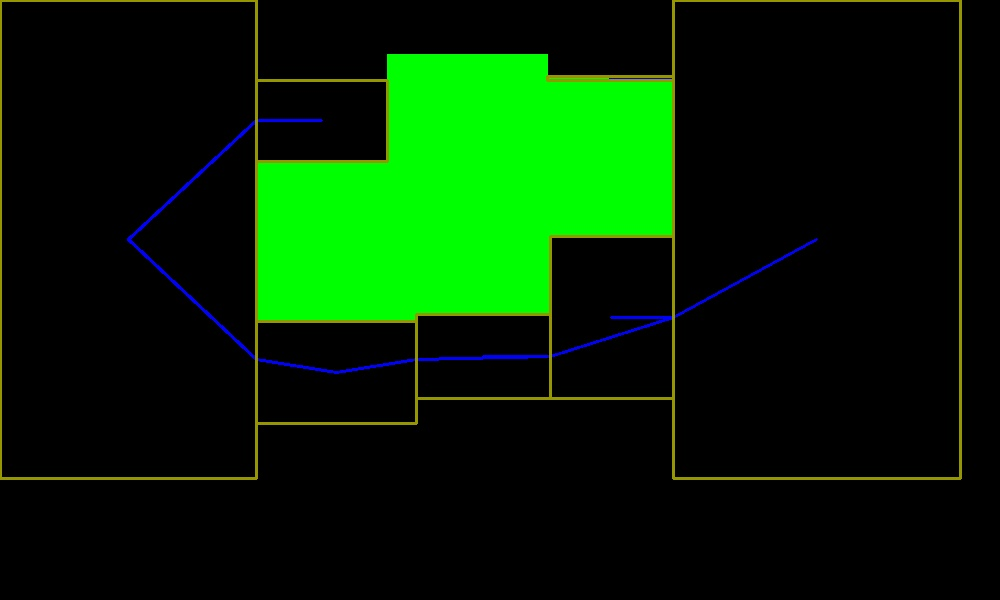
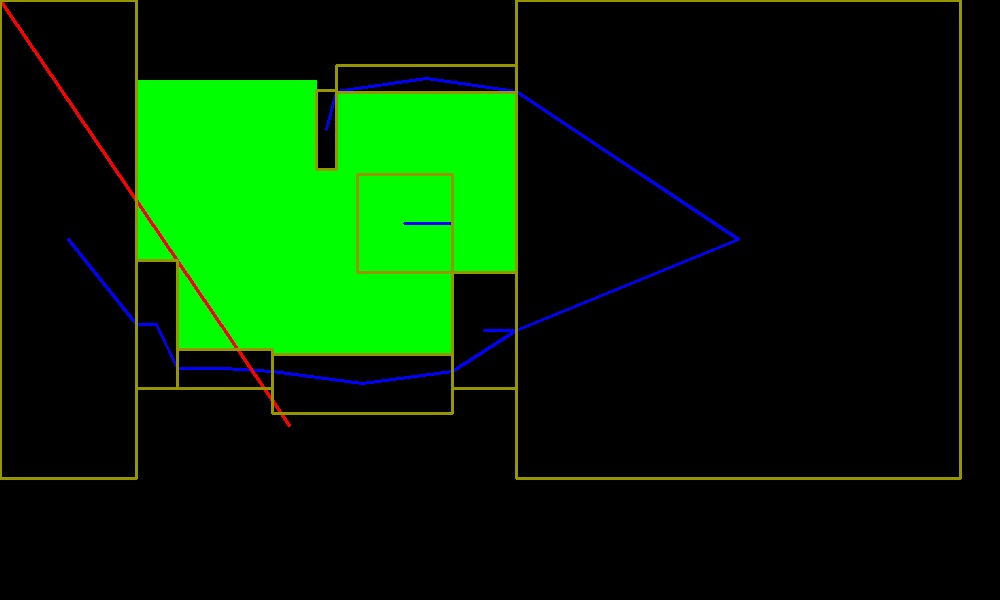
Ajout de marge de manoeuvre pour placement sur iles

diff --git a/Client/BaseStation/Logic/Pathfinding/Graph/Graph.py b/Client/BaseStation/Logic/Pathfinding/Graph/Graph.py
@@ -49,6 +49,31 @@ class Graph:
         return pointToBeReturned
 
 
+    def needAClosePoint(self, point):
+        fakePoint = (0,0)
+        pointToBeReturned = fakePoint
+        for compteur in range(0, self.safeZonesList.__len__()):
+            currentZone = self.safeZonesList[compteur]
+            if point[0] >= currentZone.cornerTopLeft[0] and point[0] <= currentZone.cornerBottomRight[0]:
+                if point[1] >= currentZone.cornerTopLeft[1] and point[1] <= currentZone.cornerBottomRight[1]:
+                    pointToBeReturned = (currentZone.centerNode.positionX, currentZone.centerNode.positionY)
+        if pointToBeReturned == fakePoint:
+            buffer = 5
+            while pointToBeReturned[0] == 0 and pointToBeReturned[1] == 0 and buffer <= 15:
+                for xIteration in range (-1,2):
+                    for yIteration in range(-1,2):
+                        pointX = point[0] + buffer*xIteration
+                        pointY = point[1] + buffer*yIteration
+                        if pointToBeReturned[0] == 0 and pointToBeReturned[1] == 0:
+                            centerNode = self.findGoodSafeNodeToGo((pointX,pointY))
+                            if centerNode.positionX != 0 and centerNode.positionY != 1:
+                                pointToBeReturned = (pointX, pointY)
+                buffer += 5
+        if pointToBeReturned == fakePoint:
+            return point
+        return pointToBeReturned
+
+
     def __areNodesPresentInNodesList(self, firstNode, secondNode):
         toBeAddFirst = True
         toBeAddSecond = True

diff --git a/Client/BaseStation/WorldVision/map.py b/Client/BaseStation/WorldVision/map.py
@@ -125,8 +125,8 @@ class Map:
                 angle = angle + 180
             if positionToGo[0] < xCenterOfEdge and positionToGo[1] > yCenterOfEdge:
                 angle = 360 - angle
-
-            myNewPath = myPathFinder.findPath(myMapCoorDinateAjuster.convertPoint((self.robot.center)), myMapCoorDinateAjuster.convertPoint(positionToGo))
+            closePoint = myPathFinder.findClosePoint(myMapCoorDinateAjuster.convertPoint(positionToGo))
+            myNewPath = myPathFinder.findPath(myMapCoorDinateAjuster.convertPoint((self.robot.center)), closePoint)
 
             if myNewPath != False:
                 if myNewPath.totalDistance < myPath.totalDistance:
@@ -160,18 +160,9 @@ class Map:
         cornerList = []
         minX = 0
         maxX = 960
-        minY = 105
-        maxY = 587
 
-#table 1 : (0,110), (960,590)
-
-#table 2 : (0,109), (960,597)
-
-#table 3 : (0,105), (960,587)
-
-#table 5 : (0,125), (960,605)
-
-#table 6 : (0,92), (960,580)
+        minY = 92
+        maxY = 580
 
         newFoundLimit = Square("limit", np.array([[[minX,minY + 5]],[[minX,maxY - 5]],[[maxX, maxY - 5]],[[maxX,minY + 5]]], dtype=np.int32))
 

diff --git a/Client/BaseStation/WorldVisionTest/mainForTestPhil.py b/Client/BaseStation/WorldVisionTest/mainForTestPhil.py
@@ -38,7 +38,7 @@ def myMain2():
     #frame = cv2.imread('Photo-Test/Frames/Picture 500.jpg')
     geometricalImage = WorldImage()
     #ret, frame = camera.read()
-    frame = cv2.imread('Photo-Test/Frames/Picture 500.jpg')
+    frame = cv2.imread('Photo-Test/Frames/Picture 503.jpg')
     frame = cv2.resize(frame, (960, 720))
     # copyF = copy.copy(frame)
     geometricalImage.buildMap(frame)
@@ -46,7 +46,7 @@ def myMain2():
     geometricalImage.defineTreasures([88, 30])
     #geometricalImage.findBestTresor()
     geometricalImage.addLabels(frame)
-    myTarget = ShapeTarget("cercle")
+    myTarget = ShapeTarget("pentagone")
     geometricalImage.getIslandPositioning(myTarget)
 
     geometricalImage.drawMapOnFrame(frame)
@@ -57,5 +57,5 @@ def myMain2():
         #     break
 
 if __name__ == '__main__':
-    myMain()
+    myMain2()
     #cProfile.run('myMain()')

diff --git a/Client/BaseStation/WorldVision/worldImage.py b/Client/BaseStation/WorldVision/worldImage.py
@@ -24,7 +24,7 @@ class WorldImage:
 
     def getIslandPositioning(self, target):
         self.__map.setTarget(target)
-        self.myPath, ret = self.__map.getPositionInFrontOfIsland()
+        self.position, ret = self.__map.getPositionInFrontOfIsland()
         return self.__map.getPositionInFrontOfIsland()
 
     def buildMap(self, frame):
@@ -77,6 +77,7 @@ class WorldImage:
         for treasure in self.__map.treasures:
             cv2.circle(frame,(int(treasure[0]), int(treasure[1])), 10, (0,0,255), 2)
 
+        cv2.circle(frame,(int(self.position[0]), int(self.position[1])), 5, (255,0,0), 2)
         cv2.drawContours( frame, self.__map.getContourList(), -1, (0, 255, 0), 3 )
         cv2.drawContours( frame, limit, -1, (0, 255, 0), 3 )
         cv2.drawContours( frame, target, -1, (255, 0, 0), 3 )

diff --git a/Client/BaseStation/Logic/Pathfinding/Pathfinder.py b/Client/BaseStation/Logic/Pathfinding/Pathfinder.py
@@ -24,6 +24,8 @@ class Pathfinder:
     def findGoodPoint(self, point):
         return self.graph.needAGoodPointToGo(point)
 
+    def findClosePoint(self, point):
+        return self.graph.needAClosePoint(point)
 
     def findPath(self, positionRobot, pointToMoveTo):
         print("@@@@@@@@@@@@@@@@@@@@@@@@@@@@@@@@@@@@@@@@@@@@@@@@@@@@@@@@@@@@@@@@@@@@@@@@@@@@@@@@@@@@@@@@@")
